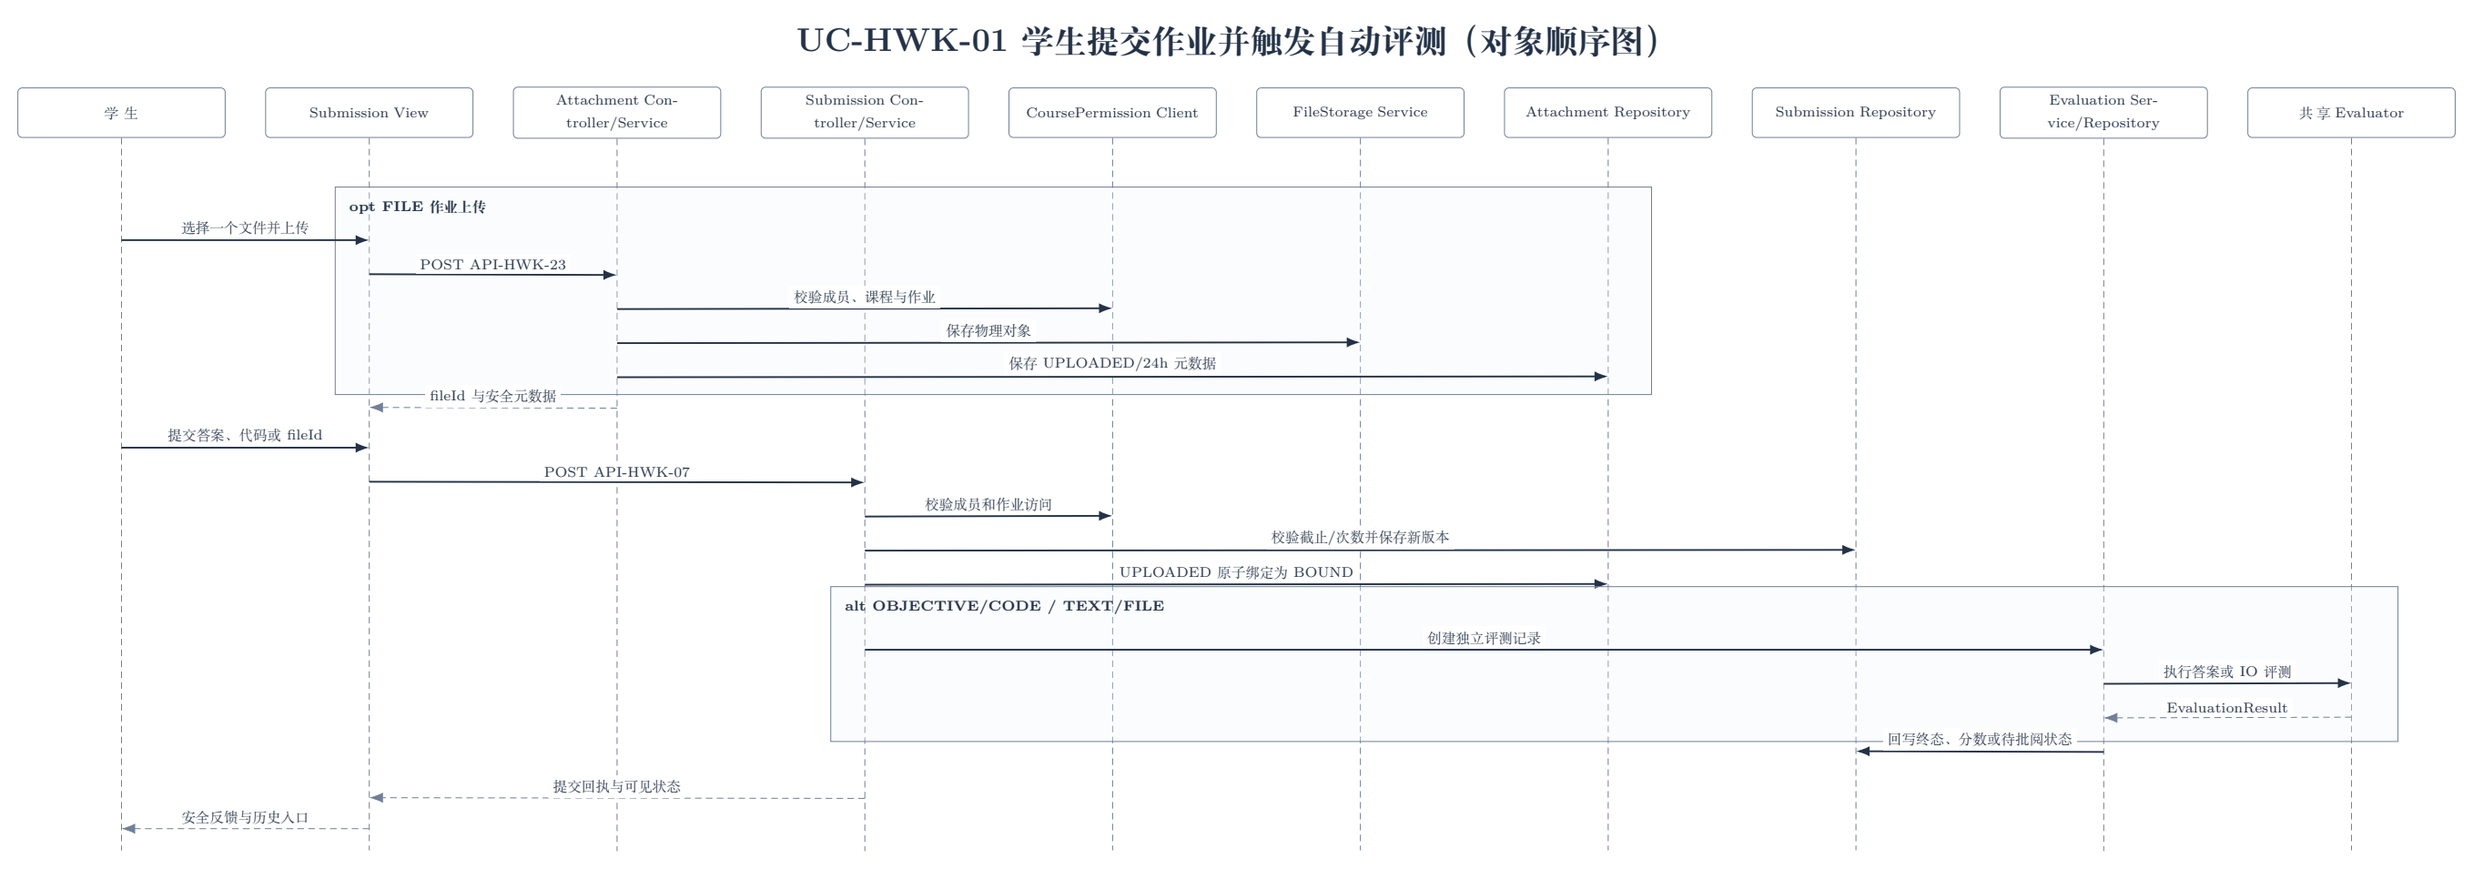
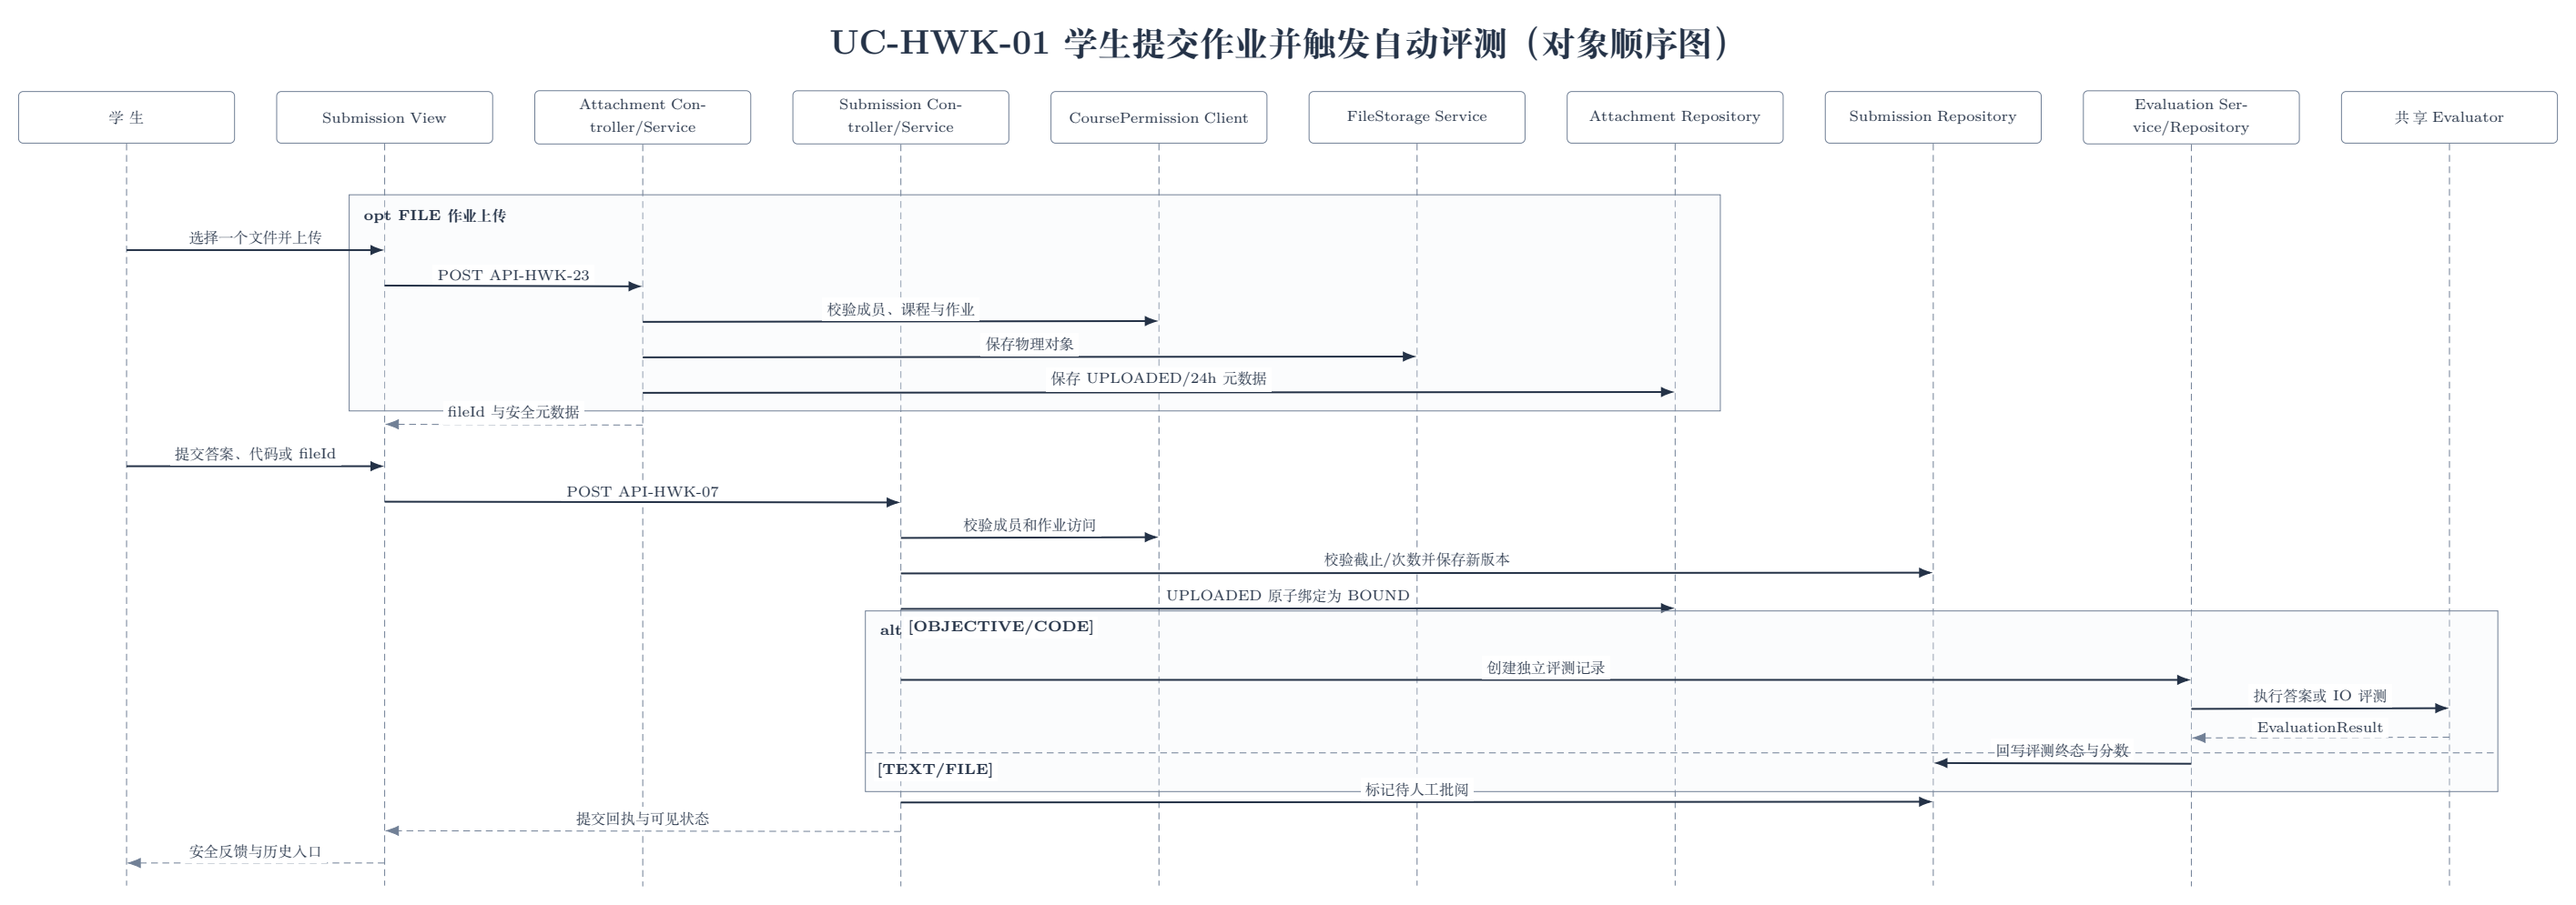
docs(hwk): address UML and closure review findings

diff --git a/docs/diagrams/tikz/hwk/uc-hwk-01-sequence.tex b/docs/diagrams/tikz/hwk/uc-hwk-01-sequence.tex
@@ -11,19 +11,23 @@
 
   \hwkmessage{Student}{System}{.8}{OP-HWK-02 提交作业(homeworkId, submission)}
   \draw[hwk fragment] (-.45,-1.55) rectangle (10.75,-8.55);
-  \node[hwk fragment label] at (-.35,-1.63) {alt 作业开放、成员和提交格式合法};
-  \hwkreturn{System}{Student}{1.85}{提交回执、版本和当前状态}
-  \hwkself{System}{2.35}{OP-HWK-03 触发自动评测}
-  \draw[hwk fragment] (-.2,-3.15) rectangle (10.5,-7.45);
-  \node[hwk fragment label] at (-.1,-3.23) {alt 自动评测完成 / 评测异常或待人工批阅};
-  \hwkreturn{System}{Student}{3.65}{可见评测状态、自动分和反馈摘要}
-  \hwkreturn{System}{Student}{4.55}{失败或待批阅状态（提交保留）}
-  \draw[hwk fragment] (2.75,-5.05) rectangle (10.25,-7.15);
-  \node[hwk fragment label] at (2.85,-5.13) {opt 教师批阅或重评};
-  \hwkmessage{Teacher}{System}{5.65}{OP-HWK-04 提交评分、评语或重评理由}
-  \hwkreturn{System}{Teacher}{6.25}{批阅/重评结果与审计日志}
-  \hwkreturn{System}{Student}{6.85}{OP-HWK-05 可见反馈与结果}
-  \node[hwk fragment label] at (-.35,-7.62) {else 逾期、非成员、格式非法或附件不可绑定};
+  \node[hwk fragment label] at (-.35,-1.63) {alt};
+  \hwkguard{.15}{-1.63}{作业开放、成员和提交格式合法}
+  \hwkreturn{System}{Student}{2.25}{提交回执、版本和当前状态}
+  \draw[hwk fragment] (-.2,-2.7) rectangle (10.5,-5.0);
+  \node[hwk fragment label] at (-.1,-2.78) {alt};
+  \hwkguard{.4}{-2.78}{OBJECTIVE/CODE}
+  \hwkself{System}{3.35}{OP-HWK-03 触发自动评测}
+  \hwkreturn{System}{Student}{3.95}{可见评测状态、自动分和反馈摘要}
+  \hwkoperand{-.2}{10.5}{-4.2}{TEXT/FILE 或评测异常}
+  \hwkreturn{System}{Student}{4.65}{待批阅或失败状态（提交保留）}
+  \draw[hwk fragment] (2.75,-5.2) rectangle (10.25,-7.15);
+  \node[hwk fragment label] at (2.85,-5.28) {opt};
+  \hwkguard{3.35}{-5.28}{教师批阅或重评}
+  \hwkmessage{Teacher}{System}{5.95}{OP-HWK-04 提交评分、评语或重评理由}
+  \hwkreturn{System}{Teacher}{6.5}{批阅/重评结果与审计日志}
+  \hwkreturn{System}{Student}{6.95}{OP-HWK-05 可见反馈与结果}
+  \hwkoperand{-.45}{10.75}{-7.4}{逾期、非成员、格式非法或附件不可绑定}
   \hwkreturn{System}{Student}{8.05}{稳定错误码和受控提示}
 \end{tikzpicture}
 \end{document}

diff --git a/docs/diagrams/tikz/hwk/uc-hwk-02-object-sequence.tex b/docs/diagrams/tikz/hwk/uc-hwk-02-object-sequence.tex
@@ -3,7 +3,7 @@
 \begin{document}
 \begin{tikzpicture}
   \tikzset{hwk participant/.append style={font=\scriptsize,text width=3.1cm}}
-  \def\DiagramDepth{11.2}
+  \def\DiagramDepth{12.0}
   \node[hwk title] at (14,1.15) {UC-HWK-02 教师创建并发布作业（对象顺序图）};
   \hwkparticipant{Teacher}{0}{教师}{\DiagramDepth}
   \hwkparticipant{View}{4}{Homework\ Editor View}{\DiagramDepth}
@@ -28,10 +28,13 @@
   \hwkmessage{Controller}{Service}{7.35}{publish(homeworkId, currentUser)}
   \hwkmessage{Service}{Permission}{7.95}{复核课程管理权限}
   \hwkmessage{Service}{Config}{8.55}{校验类型配置完整性}
-  \draw[hwk fragment] (11.45,-8.95) rectangle (28.75,-10.65);
-  \node[hwk fragment label] at (11.55,-9.03) {alt 合法且未删除 / 权限、配置或状态冲突};
+  \draw[hwk fragment] (11.45,-8.95) rectangle (28.75,-11.35);
+  \node[hwk fragment label] at (11.55,-9.03) {alt};
+  \hwkguard{12.05}{-9.03}{合法且未删除}
   \hwkmessage{Service}{Repository}{9.55}{原子更新 PUBLISHED/publishedAt}
   \hwkmessage{Service}{Event}{10.1}{publish(HOMEWORK\_PUBLISHED)}
-  \hwkreturn{Service}{Controller}{10.75}{结果或稳定 HWK 错误码}
+  \hwkreturn{Service}{Controller}{10.45}{发布结果}
+  \hwkoperand{11.45}{28.75}{-10.7}{权限、配置或状态冲突}
+  \hwkreturn{Service}{Controller}{11.15}{稳定 HWK 错误码}
 \end{tikzpicture}
 \end{document}

diff --git a/docs/diagrams/tikz/hwk/uc-hwk-01-object-sequence.tex b/docs/diagrams/tikz/hwk/uc-hwk-01-object-sequence.tex
@@ -29,12 +29,15 @@
   \hwkmessage{Submission}{Permission}{6.1}{校验成员和作业访问}
   \hwkmessage{Submission}{SubmitRepo}{6.65}{校验截止/次数并保存新版本}
   \hwkmessage{Submission}{AttachRepo}{7.2}{UPLOADED 原子绑定为 BOUND}
-  \draw[hwk fragment] (11.45,-7.65) rectangle (36.75,-10.15);
-  \node[hwk fragment label] at (11.55,-7.73) {alt OBJECTIVE/CODE / TEXT/FILE};
-  \hwkmessage{Submission}{Eval}{8.25}{创建独立评测记录}
-  \hwkmessage{Eval}{Evaluator}{8.8}{执行答案或 IO 评测}
-  \hwkreturn{Evaluator}{Eval}{9.35}{EvaluationResult}
-  \hwkmessage{Eval}{SubmitRepo}{9.9}{回写终态、分数或待批阅状态}
+  \draw[hwk fragment] (11.45,-7.65) rectangle (36.75,-10.45);
+  \node[hwk fragment label] at (11.55,-7.73) {alt};
+  \hwkguard{12.05}{-7.73}{OBJECTIVE/CODE}
+  \hwkmessage{Submission}{Eval}{8.3}{创建独立评测记录}
+  \hwkmessage{Eval}{Evaluator}{8.75}{执行答案或 IO 评测}
+  \hwkreturn{Evaluator}{Eval}{9.2}{EvaluationResult}
+  \hwkmessage{Eval}{SubmitRepo}{9.6}{回写评测终态与分数}
+  \hwkoperand{11.45}{36.75}{-9.85}{TEXT/FILE}
+  \hwkmessage{Submission}{SubmitRepo}{10.2}{标记待人工批阅}
   \hwkreturn{Submission}{View}{10.65}{提交回执与可见状态}
   \hwkreturn{View}{Student}{11.15}{安全反馈与历史入口}
 \end{tikzpicture}

diff --git a/docs/diagrams/tikz/hwk/uc-hwk-02-sequence.tex b/docs/diagrams/tikz/hwk/uc-hwk-02-sequence.tex
@@ -8,14 +8,16 @@
   \hwkparticipant{System}{10}{OnlineJudgeForSE}{\DiagramDepth}
   \hwkactivation{System}{.55}{6.8}
 
-  \hwkmessage{Teacher}{System}{.8}{OP-HWK-01 保存作业(homeworkForm)}
+  \hwkmessage{Teacher}{System}{.8}{OP-HWK-01 提交作业表单(homeworkForm, action)}
   \draw[hwk fragment] (-.45,-1.55) rectangle (10.75,-6.5);
-  \node[hwk fragment label] at (-.35,-1.63) {alt 表单、课程权限和题型配置合法};
+  \node[hwk fragment label] at (-.35,-1.63) {alt};
+  \hwkguard{.15}{-1.63}{保存草稿且表单合法}
   \hwkreturn{System}{Teacher}{2.0}{作业草稿和编辑入口}
-  \hwkmessage{Teacher}{System}{2.75}{确认发布(homeworkId)}
-  \hwkself{System}{3.35}{生成课程任务和站内通知}
+  \hwkoperand{-.45}{10.75}{-2.4}{确认发布且权限、题型配置合法}
+  \hwkmessage{Teacher}{System}{2.95}{确认发布(homeworkId)}
+  \hwkself{System}{3.5}{生成课程任务和站内通知}
   \hwkreturn{System}{Teacher}{4.15}{已发布状态、任务和通知结果}
-  \node[hwk fragment label] at (-.35,-4.75) {else 字段/测试用例非法或课程无权限};
+  \hwkoperand{-.45}{10.75}{-4.65}{字段/测试用例非法或课程无权限}
   \hwkreturn{System}{Teacher}{5.55}{拒绝保存或发布并提示原因}
 \end{tikzpicture}
 \end{document}

diff --git a/docs/diagrams/tikz/hwk/hwk-tikz-style.tex b/docs/diagrams/tikz/hwk/hwk-tikz-style.tex
@@ -18,7 +18,10 @@
   hwk label/.style={fill=white,inner sep=2pt,font=\scriptsize,align=center,text=HwkInk},
   hwk activation/.style={draw=HwkLine,fill=HwkAccent},
   hwk fragment/.style={draw=HwkLine,fill=HwkPanel,fill opacity=.28,text opacity=1},
-  hwk fragment label/.style={anchor=north west,font=\bfseries\scriptsize,text=HwkInk}
+  hwk fragment label/.style={anchor=north west,font=\bfseries\scriptsize,text=HwkInk},
+  hwk fragment divider/.style={draw=HwkLine,densely dashed},
+  hwk guard/.style={anchor=north west,fill=white,inner sep=1.5pt,
+    font=\bfseries\scriptsize,text=HwkInk}
 }
 
 \newcommand{\hwkparticipant}[4]{%
@@ -39,4 +42,11 @@
 \newcommand{\hwkself}[3]{%
   \draw[hwk message] ($(#1.south)+(0,-#2)$) -- ++(.55,0) -- ++(0,-.38) --
     node[midway,right,hwk label] {#3} ($(#1.south)+(0,-#2-.38)$);
+}
+\newcommand{\hwkguard}[3]{%
+  \node[hwk guard] at (#1,#2) {[#3]};
+}
+\newcommand{\hwkoperand}[4]{%
+  \draw[hwk fragment divider] (#1,#3) -- (#2,#3);
+  \node[hwk guard] at ($(#1,#3)+(.12,-.1)$) {[#4]};
 }

diff --git a/docs/diagrams/tikz/hwk/uc-hwk-02-component-sequence.tex b/docs/diagrams/tikz/hwk/uc-hwk-02-component-sequence.tex
@@ -16,12 +16,15 @@
   \hwkmessage{API}{Perm}{2.0}{校验课程管理权限}
   \hwkreturn{Perm}{API}{2.55}{允许或拒绝}
   \draw[hwk fragment] (7.45,-3.0) rectangle (20.75,-7.85);
-  \node[hwk fragment label] at (7.55,-3.08) {alt 保存草稿 / 发布且配置完整 / 失败};
+  \node[hwk fragment label] at (7.55,-3.08) {alt};
+  \hwkguard{8.05}{-3.08}{保存草稿}
   \hwkmessage{API}{DB}{3.65}{保存 DRAFT 及配置}
   \hwkreturn{API}{FE}{4.2}{返回草稿与更新时间}
+  \hwkoperand{7.45}{20.75}{-4.5}{请求发布且配置完整}
   \hwkmessage{API}{DB}{4.95}{原子更新 PUBLISHED/publishedAt}
   \hwkmessage{API}{Event}{5.55}{发布 HOMEWORK\_PUBLISHED}
   \hwkreturn{API}{FE}{6.25}{返回发布结果}
+  \hwkoperand{7.45}{20.75}{-6.55}{权限、配置或状态校验失败}
   \hwkreturn{API}{FE}{7.15}{受控错误并保留可修改内容}
   \hwkreturn{FE}{Teacher}{8.05}{展示最终状态}
 \end{tikzpicture}

diff --git a/docs/diagrams/tikz/hwk/uc-hwk-01-component-sequence.tex b/docs/diagrams/tikz/hwk/uc-hwk-01-component-sequence.tex
@@ -24,10 +24,12 @@
   \hwkmessage{API}{Perm}{5.3}{校验成员、状态、截止与次数}
   \hwkmessage{API}{DB}{5.9}{保存版本并维护唯一有效提交}
   \draw[hwk fragment] (6.45,-6.35) rectangle (23.7,-8.8);
-  \node[hwk fragment label] at (6.55,-6.43) {alt OBJECTIVE/CODE / TEXT/FILE};
+  \node[hwk fragment label] at (6.55,-6.43) {alt};
+  \hwkguard{7.05}{-6.43}{OBJECTIVE/CODE}
   \hwkmessage{API}{Eval}{6.95}{自动评分或创建评测任务}
   \hwkreturn{Eval}{API}{7.55}{初始/最终评测状态}
-  \hwkmessage{API}{DB}{8.25}{标记待人工批阅}
+  \hwkoperand{6.45}{23.7}{-7.9}{TEXT/FILE}
+  \hwkmessage{API}{DB}{8.35}{标记待人工批阅}
   \hwkreturn{API}{FE}{9.15}{提交回执和可见状态}
   \hwkreturn{FE}{Student}{9.75}{结果、错误或恢复提示}
 \end{tikzpicture}

diff --git a/docs/过程/测试/TST-DOC-06 HWK 作业与自动评测测试文档.md b/docs/过程/测试/TST-DOC-06 HWK 作业与自动评测测试文档.md
@@ -5,12 +5,12 @@
 | 文档名称 | HWK 作业与自动评测测试文档 |
 | 项目名称 | 在线教学与实训平台 |
 | 所属阶段 | 系统测试与验收测试 |
-| 报告版本 | V1.4 |
-| 编写日期 | 2026-08-25 |
+| 报告版本 | V1.5 |
+| 编写日期 | 2026-08-26 |
 | 编写人 | HWK 模块负责人 |
 | 对应 issue | #264 HWK 业务场景文档与测试闭环；#157 TST-DOC-06；#225 HWK 统计与待处理名单；#224 HWK 草稿逻辑删除；#214 HWK FILE 附件上传与安全提交 |
 | 测试范围 | HWK 作业发布、草稿删除、提交/历史/评测/批阅、统计与待处理名单；FILE 单附件上传、24h 恢复/清理、原子绑定/补偿、所有权、受控下载、权限、安全与响应式页面 |
-| 测试结论 | #264 在 `origin/dev@758afd9` 完成 HWK 场景与三层图闭环；后端 HWK 101/101、前端 HWK 182/182、后端全量 368（1 Docker-only skipped）、前端全量 551/551、typecheck/build 和文档契约通过；直接复用 #267 / PR #268 共享入口的 HWK E2E 2/2 PASS，LRN 通知落库与 GRD 成绩消费真实边界 PASS |
+| 测试结论 | #264 的场景、三层图与多数自动化路径已通过，GRD 成绩消费已按 `gradeItemId + studentId + sourceId + rawScore` 精确复测为 PASS；但完整闭环当前仍为 FAIL：SRS 4.10 与通知投递失败运行时语义不一致，独立缺陷 #281 跟踪，实际完成日期暂不填写 |
 
 ## 1 文档控制
 
@@ -23,6 +23,7 @@
 | V1.2 | 2026-08-22 | HWK 模块负责人 | 按 #224 补充 API-HWK-22、HWK_4095、TC-HWK-19、UI-HWK-01 删除入口、父表原子软删/子历史保留/普通更新防复活；记录全量自动化、typecheck/build 和 1440×900/390×844 浏览器证据 |
 | V1.3 | 2026-08-22 | HWK 模块负责人 | 按 #214 补充 API-HWK-23/24、DB-HWK-08、TC-HWK-20 ~ 27、MAN-HWK-012，回填后端 340/定向 94、前端 545、MySQL 9.6 与 `output/playwright/issue-214/01~10` 证据 |
 | V1.4 | 2026-08-25 | HWK 模块负责人 | 按 #264 拆分 UC-HWK-01/02 需求层 SSD，补概要组件顺序图、详细对象顺序图和业务场景分类；记录文档契约 RED→GREEN、当前基线自动化统计、共享 HWK E2E 2/2 及 LRN/GRD 真实边界 PASS |
+| V1.5 | 2026-08-26 | HWK 模块负责人 | 按 PR #276 评审纠正 GRD 假阳性、TikZ 组合片段和通知失败结论；通知失败设计/实现冲突标记 FAIL 并关联 #281，待复测结果不预写为 PASS |
 
 ### 1.2 审批记录
 
@@ -61,13 +62,13 @@
 
 | 编号 | 测试对象 | 主要验证点 | 当前覆盖状态 |
 | --- | --- | --- | --- |
-| FR-HWK-01 | 作业创建与发布 | 教师/助教创建草稿、编辑、原子逻辑删除 DRAFT、保存题目/测试用例、发布、关闭、发布通知；删除只改父表，普通更新不得复活 | TC-HWK-19 后端/前端全量与浏览器证据通过 |
+| FR-HWK-01 | 作业创建与发布 | 教师/助教创建草稿、编辑、原子逻辑删除 DRAFT、保存题目/测试用例、发布、关闭、发布通知；删除只改父表，普通更新不得复活 | 主流程与草稿删除通过；通知投递失败语义与 SRS 4.10 不一致，FAIL，见 #281 |
 | FR-HWK-02 | 学生作业查看与提交 | 学生查看已发布作业，标准答案和隐藏用例不可见，提交文本/客观题/代码，截止和重复提交规则 | 后端和前端自动化已覆盖 |
 | FR-HWK-03 | 提交历史管理 | 学生个人历史、教师全班分页列表、筛选、提交详情、最新有效提交标识，以及 attention 未传时的兼容行为 | 既有列表与 #225 attention 兼容回归均已覆盖 |
 | FR-HWK-04 | 自动评测 | 客观题自动评分、代码题 IO 评测、失败状态保留、评测结果查询、重评 | 后端和前端自动化已覆盖；真实沙箱压力待手工/集成确认 |
 | FR-HWK-05 | 教师批阅与重评 | 人工分数、评语、重评日志，以及待评测/待批阅 attention 的题型、评测终态和批阅状态组合 | 既有批阅与 #225 attention 新语义已由自动化和浏览器覆盖 |
 | FR-HWK-06 | 作业反馈与结果展示 | 成绩可见性；当前活跃学生单次作业统计；五档归一化；未提交、待评测、待批阅服务端分页；向 GRD 提供成绩来源 | #225 单次作业统计与名单契约通过；GRD 生产全链路仍待统一环境确认 |
-| NFR-HWK-01 | 可靠性 | 提交、评测、批阅、通知失败和分数记录不丢失；草稿删除原子化且普通更新不能复活 | 并发分类和旧编辑/发布防复活测试通过 |
+| NFR-HWK-01 | 可靠性 | 提交、评测、批阅、通知失败和分数记录不丢失；草稿删除原子化且普通更新不能复活 | 草稿与提交可靠性通过；通知失败缺少与 SRS 一致的可追踪结果，FAIL，见 #281 |
 | NFR-HWK-02 | 性能 | 三类名单分页、统计 SQL 聚合、组合索引、聚合总数不受当前页影响 | #225 SQL、迁移、极大页码与大于单页样本通过；生产规模压力和 MySQL EXPLAIN 待部署复核 |
 | NFR-HWK-03 | 可追踪性 | 提交、评测、批阅、重评、成绩发布均有记录或日志；删除父作业后全部子数据和历史保留 | 六类子记录主键与关键内容保持测试通过 |
 | NFR-HWK-04 | 安全性 | 当前用户来源、课程成员校验、统计/attention/草稿删除的学生与无权限教师 403、姓名失败不泄露裸 ID | 删除 403、状态 409、重复删除 404 契约通过 |
